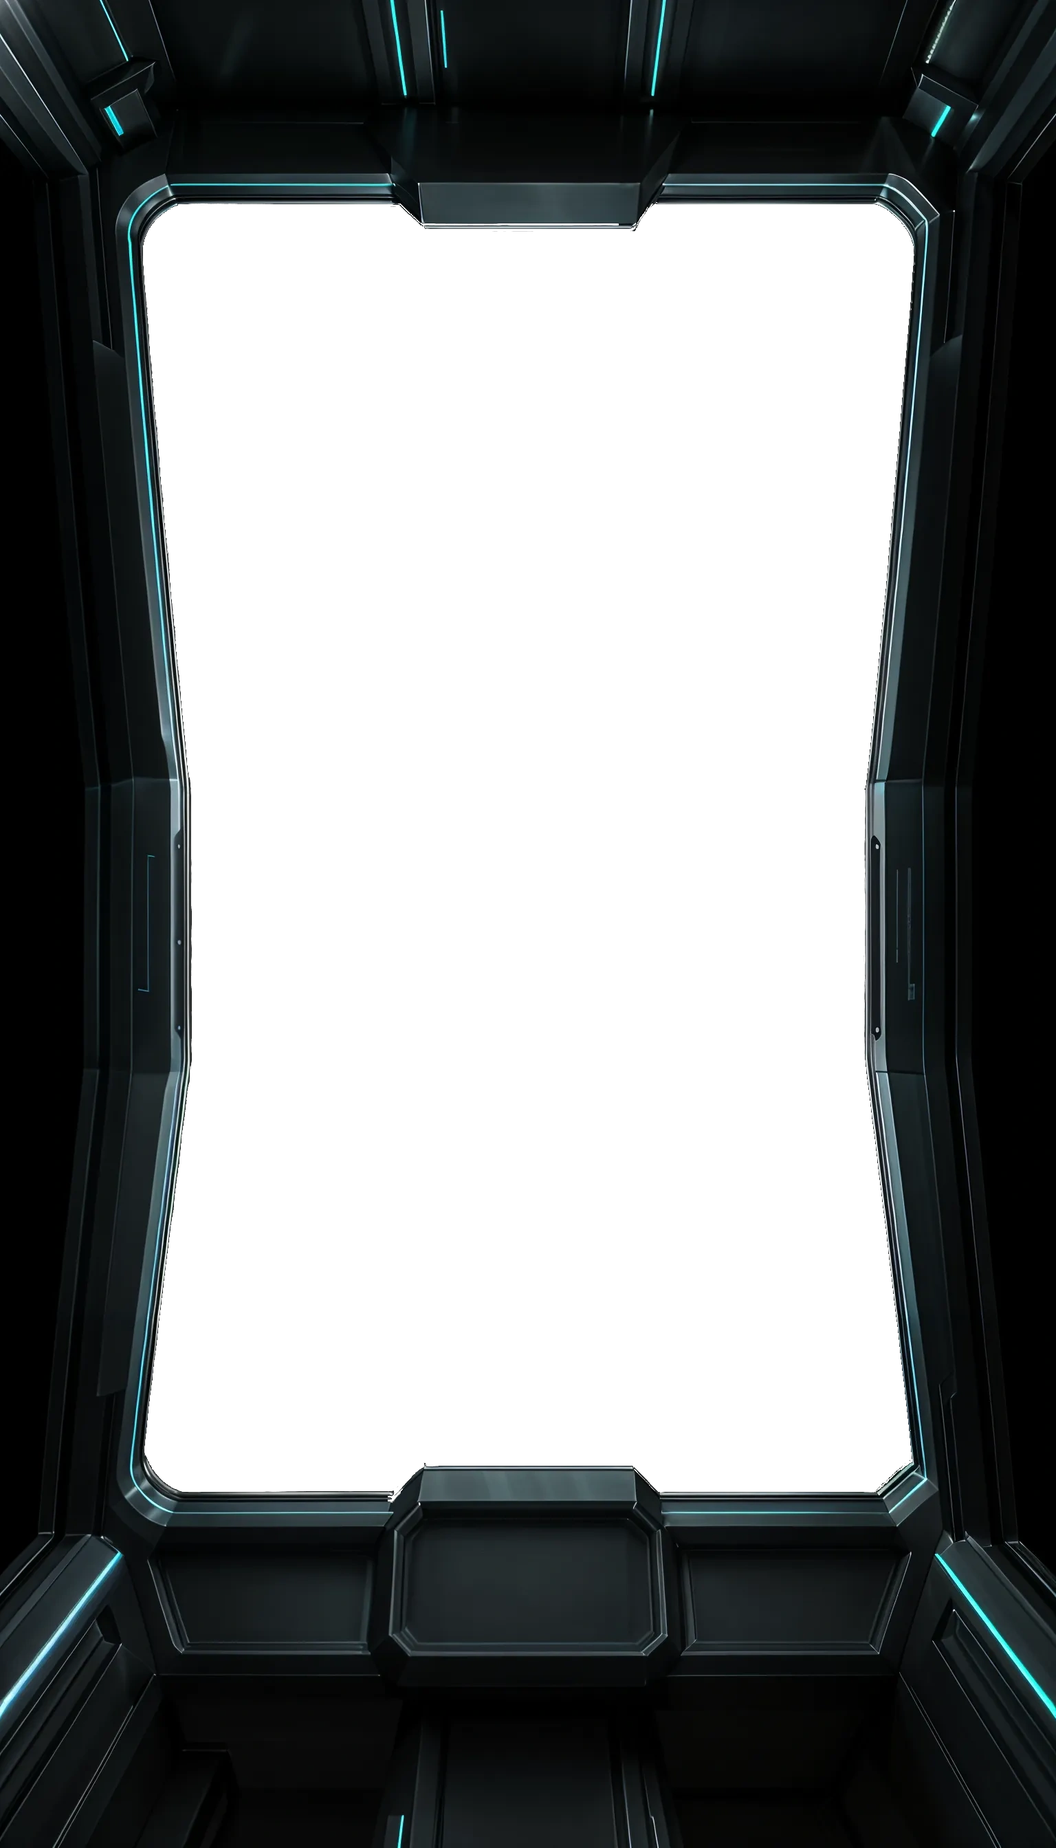
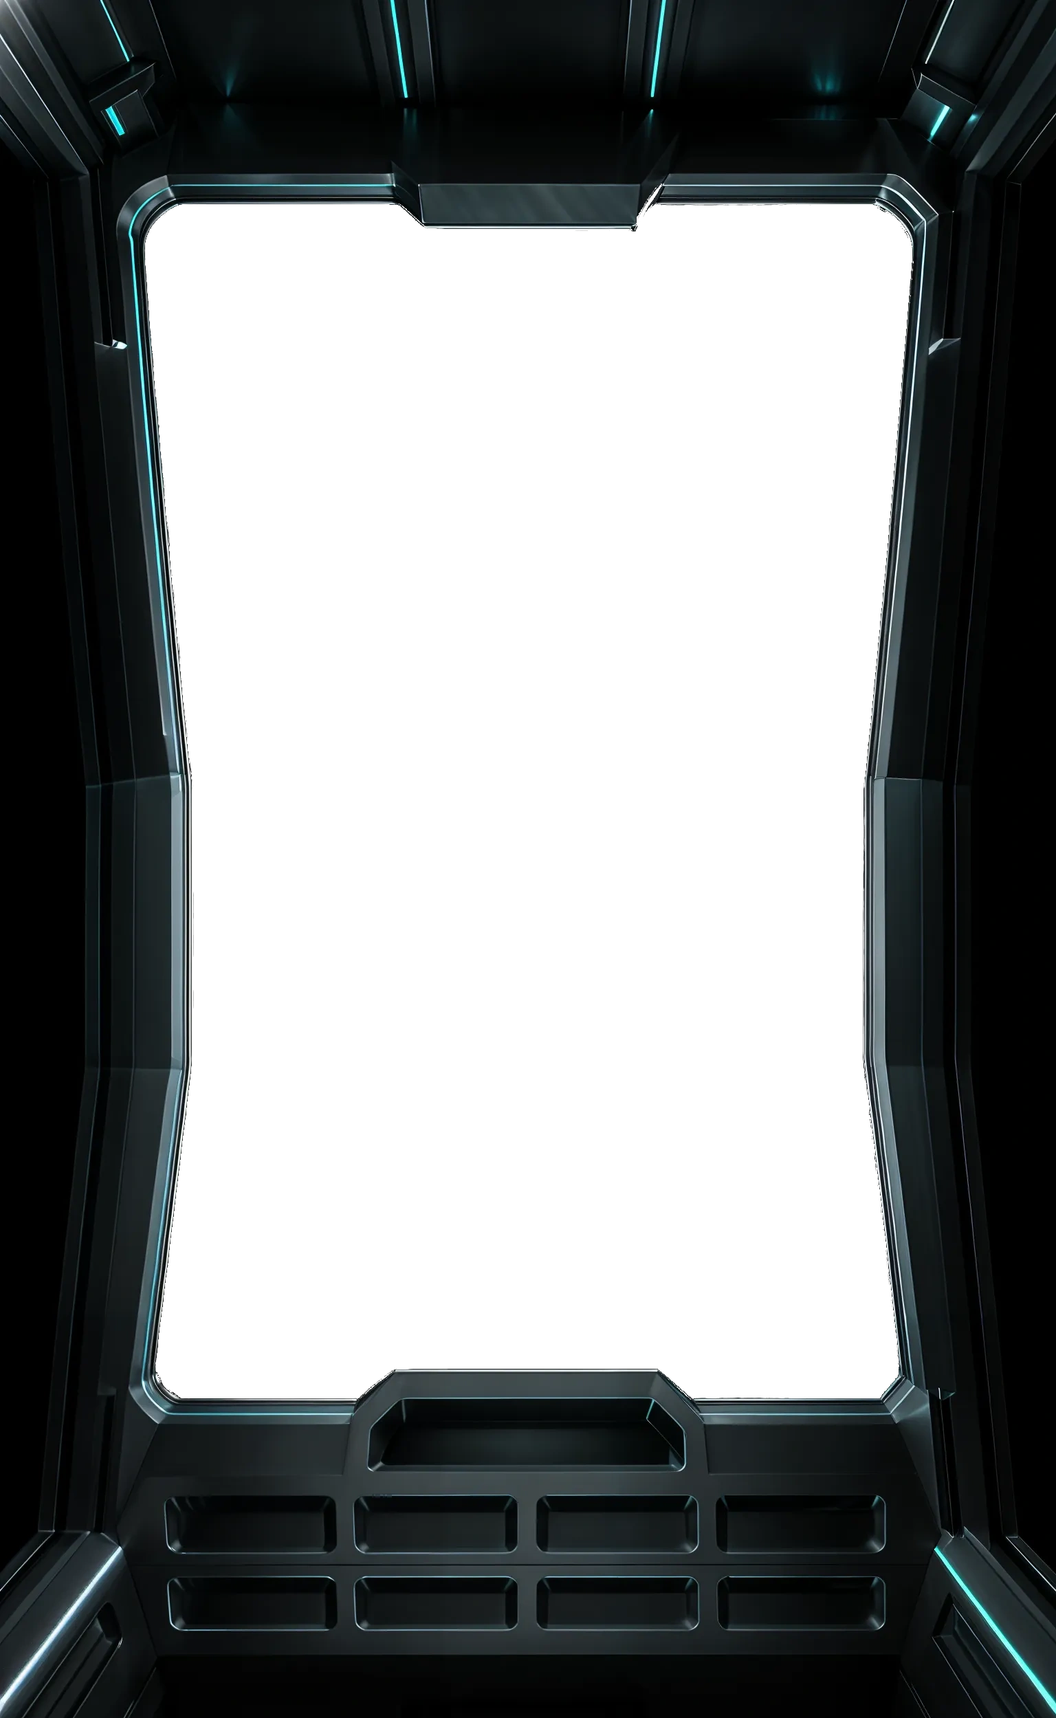
Мобильный пульт на восемь клавиш, привязка кадра к низу, кабинет жив
Плита телефона перерисована кабинетом: тот же кадр, но пульт собран как
пульт - центральная ниша под ленту и два ряда по четыре пустых места.
Раньше мест было четыре, и восемь лишних кнопок разметки висели поверх
пульта плоскими чипами, то есть ровно той вклейкой, против которой всё
и затевалось. Теперь каждая команда сидит в своей нише.

Числа ниш сняты не на глаз, а разбором плиты по фаскам: первый замер по
сетке промахивался на полтора процента, и свет стоял в нише со сдвигом.

Кадр по вертикали привязан к низу ровно настолько, чтобы нижний ряд
клавиш помещался. На мониторе 2560 на 1080 снимок обрезался почти на
четверть, и первым уходил пульт - игрок терял управление. Арифметику
раскладки считает одно место (rc-deck), рама и разметка окна берут её
оттуда: две копии разошлись бы именно там, где сдвиг и нужен.

Приёмка меряет клавиши по местам на плите, а не по объёмным крышкам,
которых больше нет.

Паспорт: кабинет ChatGPT исправен, вчерашний «мёртвый поток» был
ошибкой селектора ответа.

Claude-Session: https://claude.ai/code/session_01CgnqZVEKkf4hfWcHaNW8y5

Changed region(s): [[0.0, 0.0, 1.0, 1.0], [0.75, 0.0312, 0.8125, 0.0624], [0.4062, 0.0, 0.4375, 0.0312]]

diff --git a/rocketcdn/assets/gen/cab/flat.js b/rocketcdn/assets/gen/cab/flat.js
@@ -1,2 +1,2 @@
 /* Паспорт плоской рамы. Собран tools/cabflat.py, руками не править. */
-window.RC_CAB_FLAT = {"широкая":{"файл":"assets/gen/cockpit-wide-hd.webp","w":2688,"h":1536,"контур":[[0.88207,0.41574],[0.86682,0.47191],[0.85268,0.52458],[0.83891,0.57468],[0.82589,0.62335],[0.81303,0.67122],[0.80022,0.71912],[0.78497,0.76499],[0.75906,0.79622],[0.71849,0.79818],[0.68333,0.79818],[0.65297,0.79818],[0.62613,0.79818],[0.60203,0.79883],[0.57557,0.7793],[0.55552,0.77865],[0.53659,0.7793],[0.51813,0.7793],[0.49995,0.7793],[0.48178,0.7793],[0.46332,0.7793],[0.44429,0.7793],[0.42434,0.7793],[0.39805,0.79818],[0.37357,0.79883],[0.34667,0.79883],[0.31658,0.79818],[0.28105,0.79883],[0.2404,0.79687],[0.21442,0.76562],[0.19978,0.71903],[0.18713,0.67102],[0.17411,0.62329],[0.16109,0.57464],[0.14732,0.52455],[0.13281,0.47195],[0.11793,0.41574],[0.10119,0.35469],[0.08296,0.28707],[0.0625,0.21061],[0.06027,0.13568],[0.10777,0.0957],[0.1832,0.0957],[0.23878,0.0957],[0.28201,0.0957],[0.31708,0.0957],[0.3465,0.0957],[0.3719,0.0957],[0.39437,0.0957],[0.41468,0.0957],[0.43353,0.09635],[0.45075,0.0944],[0.46771,0.0957],[0.48392,0.09505],[0.49995,0.0944],[0.51599,0.09505],[0.5322,0.0957],[0.54916,0.0944],[0.56652,0.0957],[0.58523,0.0957],[0.60554,0.0957],[0.62801,0.0957],[0.65341,0.0957],[0.68304,0.09535],[0.7179,0.0957],[0.76272,0.09375],[0.81735,0.09505],[0.89453,0.09375],[0.94006,0.13542],[0.9375,0.21057],[0.91667,0.28715],[0.89844,0.35473]],"коробка":{"l":0.05171,"r":0.94978,"t":0.09375,"b":0.79818},"поля":{"слева":0.05171,"справа":0.05022,"сверху":0.09375,"снизу":0.20182}},"высокая":{"файл":"assets/gen/cockpit-tall-hd.webp","w":1536,"h":2688,"контур":[[0.81901,0.45643],[0.81966,0.47242],[0.81966,0.48866],[0.81901,0.50531],[0.81966,0.52296],[0.81901,0.54149],[0.81901,0.56175],[0.82161,0.5852],[0.82812,0.61387],[0.83529,0.64815],[0.84375,0.69068],[0.85547,0.7467],[0.8457,0.79881],[0.7861,0.80729],[0.72326,0.80729],[0.6643,0.80729],[0.6046,0.79613],[0.55133,0.79315],[0.49978,0.79315],[0.44822,0.79315],[0.39484,0.7965],[0.33543,0.80692],[0.27653,0.80692],[0.21346,0.80729],[0.15234,0.8003],[0.14453,0.74634],[0.1556,0.69082],[0.16536,0.64752],[0.17253,0.61334],[0.17969,0.5845],[0.18164,0.56139],[0.18164,0.5412],[0.18099,0.52273],[0.18099,0.50524],[0.18099,0.48855],[0.18099,0.47237],[0.18099,0.45643],[0.18099,0.44049],[0.18034,0.42424],[0.17643,0.40692],[0.17318,0.3885],[0.16992,0.36854],[0.16667,0.34653],[0.16211,0.32132],[0.15755,0.29234],[0.15169,0.25752],[0.14583,0.21539],[0.13802,0.16121],[0.15514,0.11533],[0.21718,0.11012],[0.27943,0.11049],[0.33756,0.11049],[0.39613,0.12054],[0.44886,0.12388],[0.49978,0.12388],[0.55069,0.12388],[0.60251,0.12351],[0.66199,0.11049],[0.72012,0.11049],[0.78208,0.11049],[0.8444,0.11534],[0.86263,0.16031],[0.85482,0.21465],[0.84831,0.25727],[0.8431,0.29181],[0.83854,0.32088],[0.83398,0.34617],[0.83008,0.36842],[0.82682,0.38841],[0.82357,0.40685],[0.82031,0.42413],[0.81966,0.44044]],"коробка":{"l":0.13542,"r":0.86523,"t":0.11012,"b":0.81287},"поля":{"слева":0.13542,"справа":0.13477,"сверху":0.11012,"снизу":0.18713}}};
+window.RC_CAB_FLAT = {"широкая":{"файл":"assets/gen/cockpit-wide-hd.webp","w":2688,"h":1536,"контур":[[0.88207,0.41574],[0.86682,0.47191],[0.85268,0.52458],[0.83891,0.57468],[0.82589,0.62335],[0.81303,0.67122],[0.80022,0.71912],[0.78497,0.76499],[0.75906,0.79622],[0.71849,0.79818],[0.68333,0.79818],[0.65297,0.79818],[0.62613,0.79818],[0.60203,0.79883],[0.57557,0.7793],[0.55552,0.77865],[0.53659,0.7793],[0.51813,0.7793],[0.49995,0.7793],[0.48178,0.7793],[0.46332,0.7793],[0.44429,0.7793],[0.42434,0.7793],[0.39805,0.79818],[0.37357,0.79883],[0.34667,0.79883],[0.31658,0.79818],[0.28105,0.79883],[0.2404,0.79687],[0.21442,0.76562],[0.19978,0.71903],[0.18713,0.67102],[0.17411,0.62329],[0.16109,0.57464],[0.14732,0.52455],[0.13281,0.47195],[0.11793,0.41574],[0.10119,0.35469],[0.08296,0.28707],[0.0625,0.21061],[0.06027,0.13568],[0.10777,0.0957],[0.1832,0.0957],[0.23878,0.0957],[0.28201,0.0957],[0.31708,0.0957],[0.3465,0.0957],[0.3719,0.0957],[0.39437,0.0957],[0.41468,0.0957],[0.43353,0.09635],[0.45075,0.0944],[0.46771,0.0957],[0.48392,0.09505],[0.49995,0.0944],[0.51599,0.09505],[0.5322,0.0957],[0.54916,0.0944],[0.56652,0.0957],[0.58523,0.0957],[0.60554,0.0957],[0.62801,0.0957],[0.65341,0.0957],[0.68304,0.09535],[0.7179,0.0957],[0.76272,0.09375],[0.81735,0.09505],[0.89453,0.09375],[0.94006,0.13542],[0.9375,0.21057],[0.91667,0.28715],[0.89844,0.35473]],"коробка":{"l":0.05171,"r":0.94978,"t":0.09375,"b":0.79818},"поля":{"слева":0.05171,"справа":0.05022,"сверху":0.09375,"снизу":0.20182}},"высокая":{"файл":"assets/gen/cockpit-tall-hd.webp","w":1536,"h":2499,"контур":[[0.81771,0.46086],[0.81771,0.47796],[0.81771,0.49532],[0.81771,0.51323],[0.81836,0.53214],[0.81706,0.55181],[0.81836,0.57393],[0.81706,0.59743],[0.81836,0.62519],[0.82682,0.66191],[0.83594,0.70714],[0.84635,0.76513],[0.83137,0.81393],[0.76759,0.81393],[0.70857,0.81353],[0.65312,0.81272],[0.59608,0.79672],[0.54754,0.79672],[0.49973,0.79672],[0.45193,0.79672],[0.40338,0.79672],[0.34791,0.80912],[0.29066,0.81393],[0.23188,0.81393],[0.16922,0.81272],[0.15299,0.76523],[0.16471,0.70627],[0.17318,0.66158],[0.18034,0.62559],[0.18164,0.59776],[0.18164,0.57374],[0.18164,0.55203],[0.18164,0.53202],[0.18164,0.51325],[0.18164,0.49534],[0.18164,0.47797],[0.18164,0.46086],[0.17904,0.44362],[0.17643,0.42582],[0.17318,0.40708],[0.17057,0.38723],[0.16667,0.3654],[0.16341,0.34151],[0.15951,0.31444],[0.15495,0.28304],[0.14974,0.24574],[0.14323,0.19972],[0.13737,0.14278],[0.17847,0.11885],[0.24026,0.11885],[0.2972,0.11885],[0.35063,0.11885],[0.40563,0.13285],[0.4531,0.13325],[0.49973,0.13325],[0.54636,0.13325],[0.59372,0.13325],[0.64866,0.11925],[0.70226,0.11885],[0.75921,0.11885],[0.82099,0.11885],[0.86328,0.14174],[0.85742,0.19885],[0.85091,0.24501],[0.8457,0.28243],[0.84115,0.31393],[0.83659,0.34132],[0.83333,0.36525],[0.83008,0.38696],[0.82682,0.40699],[0.82357,0.42577],[0.82096,0.44359]],"коробка":{"l":0.13737,"r":0.86328,"t":0.10684,"b":0.81393},"поля":{"слева":0.13737,"справа":0.13672,"сверху":0.10684,"снизу":0.18607}}};

diff --git a/rocketcdn/assets/rc-deck.js b/rocketcdn/assets/rc-deck.js
@@ -50,10 +50,29 @@ var ПОЛОС = 16;
    Плита лежит картинкой с object-fit: cover. Чтобы ниша попала
    ровно туда, где она на снимке, повторяем ту же арифметику:
    масштаб по большей нужде, остаток уходит за края поровну. */
+/* Доля кадра, ниже которой ничего важного нет. Пульт с клавишами
+   кончается здесь, дальше идёт тёмный ближний край. */
+var ДНО = 0.978;
+
 function покрытие(meta, W, H) {
   var k = Math.max(W / meta.w, H / meta.h);
-  return { k: k, dw: meta.w * k, dh: meta.h * k,
-           ox: (W - meta.w * k) / 2, oy: (H - meta.h * k) / 2 };
+  var dw = meta.w * k, dh = meta.h * k;
+  /* По вертикали кадр держим не по центру, а так, чтобы пульт всегда
+     оставался в экране.
+
+     На широком мониторе снимок с отношением семь к четырём обрезается
+     сверху и снизу почти на четверть, и первым уходит именно пульт: на
+     2560 на 1080 клавиши оказывались за нижней кромкой, то есть игрок
+     терял управление. Сдвигаем кадр вниз ровно настолько, чтобы нижний
+     ряд клавиш поместился, и ни на пиксель больше - лишний сдвиг съел
+     бы верхнюю кромку окна без нужды. */
+  var д = 0.5;
+  if (dh > H) {
+    д = (H - ДНО * dh) / (H - dh);
+    if (д < 0.5) д = 0.5;
+    if (д > 1) д = 1;
+  }
+  return { k: k, dw: dw, dh: dh, ox: (W - dw) / 2, oy: (H - dh) * д, доля: д };
 }
 
 function точка(п, u, v) {
@@ -178,6 +197,38 @@ function рамка(c, w, h, r, сила) {
 }
 
 var ПРИБОР = {
+  /* Лента: узкая арка над клавишами телефона просит прибора в одну
+     строку. Курс бегущими делениями и метка носа читаются в полосе
+     высотой в палец, а лесенка горизонта - нет. */
+  лента: function (c, w, h, s) {
+    стекло(c, w, h, 0.9);
+    var к = s.курс || 0, шаг = w * 0.085;
+    c.save();
+    c.beginPath(); c.rect(w * 0.05, 0, w * 0.90, h); c.clip();
+    for (var i = -7; i <= 7; i++) {
+      var v = Math.round(к / 10) * 10 + i * 10;
+      var x = w * 0.5 + (v - к) / 10 * шаг;
+      var б = (v % 30 === 0);
+      c.strokeStyle = "rgba(66,178,220," + (б ? 0.85 : 0.40) + ")";
+      c.lineWidth = Math.max(1, h * 0.055);
+      c.beginPath();
+      c.moveTo(x, h * (б ? 0.30 : 0.40)); c.lineTo(x, h * 0.72);
+      c.stroke();
+    }
+    c.restore();
+    /* Метка носа и две риски по краям: сколько тяги и сколько щита. */
+    c.strokeStyle = "rgba(207,233,245,0.95)";
+    c.lineWidth = Math.max(1, h * 0.07);
+    c.beginPath();
+    c.moveTo(w * 0.5, h * 0.10);
+    c.lineTo(w * 0.5 - h * 0.20, h * 0.34);
+    c.lineTo(w * 0.5 + h * 0.20, h * 0.34);
+    c.closePath();
+    c.stroke();
+    риска(c, w * 0.055, h * 0.24, w * 0.085, h * 0.52, s.тяга);
+    риска(c, w * 0.86, h * 0.24, w * 0.085, h * 0.52, s.щит);
+  },
+
   /* Навигатор: широкая ниша просит горизонтального прибора. Круглый
      радар в полосе четыре к одному тонет в пустом стекле, поэтому
      здесь лента курса, линия горизонта и две шкалы по краям - ровно
@@ -352,6 +403,16 @@ var ПРИБОР = {
     }
   }
 };
+
+/* Короткая горизонтальная риска: заполнение видно, читать нечего. */
+function риска(c, x, y, w, h, v) {
+  v = Math.max(0, Math.min(1, v == null ? 0.5 : v));
+  c.strokeStyle = "rgba(66,178,220,0.34)";
+  c.lineWidth = Math.max(1, h * 0.10);
+  c.strokeRect(x, y, w, h);
+  c.fillStyle = "rgba(123,209,236,0.90)";
+  c.fillRect(x + w * 0.22, y + h * (1 - v) + h * 0.10, w * 0.56, Math.max(1, h * v - h * 0.20));
+}
 
 /* Вертикальная шкала у края навигатора. */
 function полоска(c, x, y, w, h, v, t) {

diff --git a/rocketcdn/assets/gen/cab/deck.js b/rocketcdn/assets/gen/cab/deck.js
@@ -26,16 +26,24 @@ window.RC_CAB_DECK = {
       { "мест": 2, "угол": [[0.2290,0.8400],[0.2960,0.8362],[0.2875,0.8985],[0.2250,0.8985]] },
       { "мест": 2, "угол": [[0.3005,0.8352],[0.3620,0.8322],[0.3510,0.8985],[0.2920,0.8995]] },
       { "мест": 2, "угол": [[0.6380,0.8322],[0.6995,0.8352],[0.7080,0.8995],[0.6490,0.8985]] },
-      { "мест": 2, "угол": [[0.7040,0.8362],[0.7710,0.8400],[0.7750,0.8985],[0.7125,0.8985]] }
+      { "мест": 2, "угол": [[0.7040,0.8362],[0.7710,0.8400],[0.7750,0.8985],[0.7125,0.8985]] },
+      { "мест": 2, "угол": [[0.1780,0.9230],[0.2760,0.9180],[0.2790,0.9660],[0.1740,0.9720]] },
+      { "мест": 2, "угол": [[0.7240,0.9180],[0.8220,0.9230],[0.8260,0.9720],[0.7210,0.9660]] }
     ]
   },
   "высокая": {
     "экраны": [
-      { "ид": "навигатор", "угол": [[0.4080,0.8260],[0.5920,0.8260],[0.5870,0.8830],[0.4130,0.8830]] }
+      { "ид": "лента", "угол": [[0.3520,0.8205],[0.6440,0.8205],[0.6440,0.8505],[0.3520,0.8505]] }
     ],
     "полосы": [
-      { "мест": 2, "ключи": [0, 1], "угол": [[0.2180,0.8270],[0.3800,0.8250],[0.3830,0.8830],[0.2250,0.8850]] },
-      { "мест": 2, "ключи": [3, 5], "угол": [[0.6200,0.8250],[0.7820,0.8270],[0.7750,0.8850],[0.6170,0.8830]] }
+      { "мест": 1, "зазор": 0.10, "угол": [[0.1576,0.8707],[0.3177,0.8707],[0.3177,0.9028],[0.1576,0.9028]] },
+      { "мест": 1, "зазор": 0.10, "угол": [[0.3359,0.8707],[0.4889,0.8707],[0.4889,0.9028],[0.3359,0.9028]] },
+      { "мест": 1, "зазор": 0.10, "угол": [[0.5085,0.8707],[0.6589,0.8707],[0.6589,0.9028],[0.5085,0.9028]] },
+      { "мест": 1, "зазор": 0.10, "угол": [[0.6784,0.8707],[0.8281,0.8707],[0.8281,0.9028],[0.6784,0.9028]] },
+      { "мест": 1, "зазор": 0.10, "угол": [[0.1608,0.9188],[0.3184,0.9188],[0.3184,0.9476],[0.1608,0.9476]] },
+      { "мест": 1, "зазор": 0.10, "угол": [[0.3372,0.9188],[0.4889,0.9188],[0.4889,0.9476],[0.3372,0.9476]] },
+      { "мест": 1, "зазор": 0.10, "угол": [[0.5085,0.9188],[0.6595,0.9188],[0.6595,0.9476],[0.5085,0.9476]] },
+      { "мест": 1, "зазор": 0.10, "угол": [[0.6803,0.9188],[0.8359,0.9188],[0.8359,0.9476],[0.6803,0.9476]] }
     ]
   }
 };

diff --git a/rocketcdn/assets/rc-panel.js b/rocketcdn/assets/rc-panel.js
@@ -525,11 +525,17 @@ function flatBuild(T, o, api, inner3, portrait, W, H, proj) {
   var meta = M ? (portrait ? M["высокая"] : M["широкая"]) : null;
   if (!meta) return null;
 
-  /* Слой разметки кладёт кадр по object-fit: cover. Повторяем ту же
-     арифметику - иначе окно у геометрии и окно на экране разъедутся. */
-  var c = Math.max(W / meta.w, H / meta.h);
-  var dw = meta.w * c, dh = meta.h * c;
-  var ox = (W - dw) / 2, oy = (H - dh) / 2;
+  /* Раскладку кадра считает слой приборов и он же ставит её картинке.
+     Считать её здесь второй раз нельзя: на широком мониторе кадр
+     привязан к низу, чтобы пульт не ушёл за кромку, и вторая копия
+     арифметики молча разошлась бы с первой - окно у геометрии одно, на
+     экране другое. Запасные числа нужны на случай, если слой не
+     поднялся: без него лучше центр, чем ничего. */
+  var п = (g.RC_DECK && g.RC_DECK["покрытие"])
+    ? g.RC_DECK["покрытие"](meta, W, H) : null;
+  var c = п ? п.k : Math.max(W / meta.w, H / meta.h);
+  var dw = п ? п.dw : meta.w * c, dh = п ? п.dh : meta.h * c;
+  var ox = п ? п.ox : (W - dw) / 2, oy = п ? п.oy : (H - dh) / 2;
   function sx(u) { return (ox + u * dw) / W * 2 - 1; }
   function sy(v) { return 1 - (oy + v * dh) / H * 2; }
 

diff --git a/rocketcdn/assets/rc-flight.js b/rocketcdn/assets/rc-flight.js
@@ -6191,6 +6191,13 @@ function deckLayer() {
   if (deckSize.w !== innerWidth || deckSize.h !== innerHeight || deckSize.d !== dpr) {
     deck.размер(innerWidth, innerHeight, dpr);
     deckSize.w = innerWidth; deckSize.h = innerHeight; deckSize.d = dpr;
+    /* Привязку кадра пересчитываем вместе с размером: она зависит от
+       того, насколько экран шире снимка, и при повороте телефона
+       меняется. */
+    if (ui.cabFrame) {
+      var пк = g.RC_DECK["покрытие"](meta, innerWidth, innerHeight);
+      ui.cabFrame.style.objectPosition = "50% " + (пк["доля"] * 100).toFixed(2) + "%";
+    }
   }
   return deck;
 }
@@ -6284,6 +6291,13 @@ function cabFrameLayer() {
   }
   if (ui.cabFrame.getAttribute("src") !== meta["файл"]) {
     ui.cabFrame.setAttribute("src", meta["файл"]);
+  }
+  /* Привязка кадра по вертикали считается там же, где геометрия ниш:
+     иначе картинка и разметка приборов разъедутся ровно на широком
+     мониторе, где сдвиг и нужен. */
+  if (g.RC_DECK && g.RC_DECK["покрытие"]) {
+    var п = g.RC_DECK["покрытие"](meta, innerWidth, innerHeight);
+    ui.cabFrame.style.objectPosition = "50% " + (п["доля"] * 100).toFixed(2) + "%";
   }
 }
 
